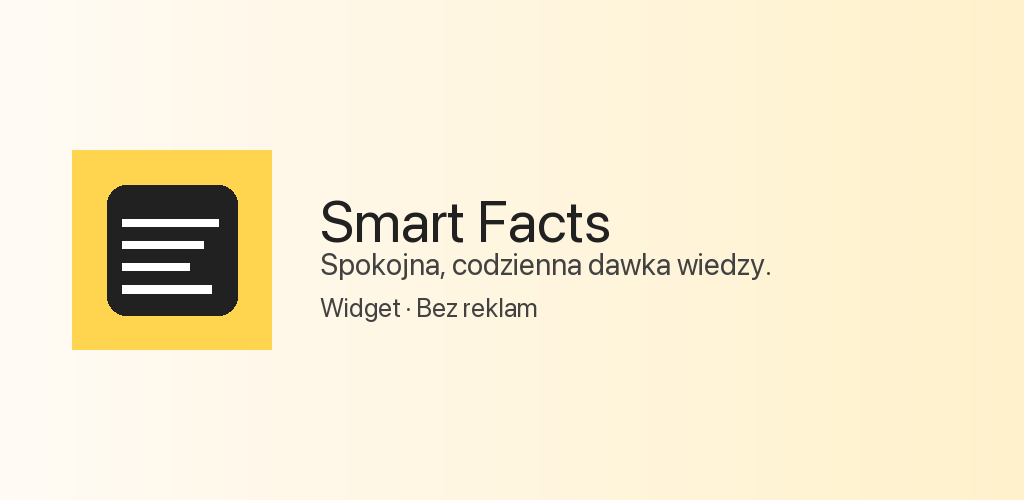
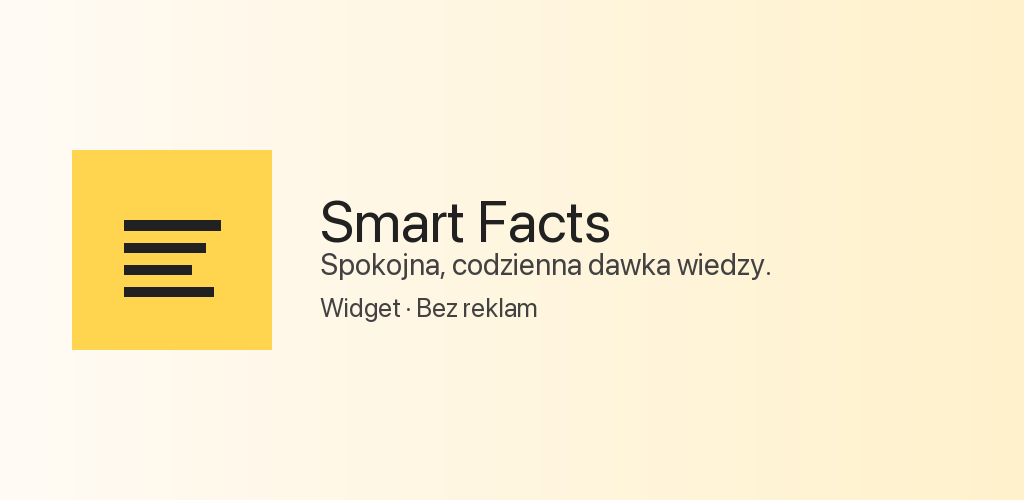
Improve widget layout and refresh launcher branding.
Use Exact widget sizing with full teaser wrapping, centered text over a
bottom-right category icon, and asymmetric padding. Switch to adaptive
mipmap launcher with monochrome icon, lighter category drawables, and
regenerated Play Store graphics.

Changed region(s): [[0.0938, 0.36, 0.25, 0.63]]

diff --git a/app/src/main/java/com/robcish/smartfactswidget/widget/SmartFactsWidget.kt b/app/src/main/java/com/robcish/smartfactswidget/widget/SmartFactsWidget.kt
@@ -2,7 +2,6 @@ package com.robcish.smartfactswidget.widget
 
 import android.content.Context
 import androidx.compose.runtime.Composable
-import androidx.compose.ui.unit.DpSize
 import androidx.compose.ui.unit.dp
 import androidx.compose.ui.unit.sp
 import androidx.glance.GlanceId
@@ -35,14 +34,8 @@ import dagger.hilt.android.EntryPointAccessors
 
 class SmartFactsWidget : GlanceAppWidget() {
 
-    override val sizeMode: SizeMode = SizeMode.Responsive(
-        setOf(
-            DpSize(110.dp, 48.dp),
-            DpSize(180.dp, 48.dp),
-            DpSize(180.dp, 110.dp),
-            DpSize(250.dp, 180.dp),
-        ),
-    )
+    // Exact size so tall resized widgets get real height (Responsive capped at ~180 dp).
+    override val sizeMode: SizeMode = SizeMode.Exact
 
     override suspend fun provideGlance(context: Context, id: GlanceId) {
         val repository = EntryPointAccessors.fromApplication(
@@ -67,24 +60,15 @@ class SmartFactsWidget : GlanceAppWidget() {
 @Composable
 private fun WidgetContent(context: Context, fact: FactEntity?) {
     val size = LocalSize.current
-    val strip = size.height < 80.dp
-    val compact = !strip && (size.width < 150.dp || size.height < 130.dp)
-    val padding = when {
-        strip -> 6.dp
-        compact -> 8.dp
-        else -> 12.dp
+    val isStrip = size.height < 80.dp
+    val contentPadding = when {
+        isStrip -> GlanceModifier.padding(start = 12.dp, end = 8.dp, top = 6.dp, bottom = 6.dp)
+        size.width < 150.dp || size.height < 130.dp ->
+            GlanceModifier.padding(start = 14.dp, end = 10.dp, top = 8.dp, bottom = 8.dp)
+        else -> GlanceModifier.padding(start = 16.dp, end = 12.dp, top = 12.dp, bottom = 12.dp)
     }
-    val iconSize = when {
-        strip -> 24.dp
-        compact -> 32.dp
-        else -> 48.dp
-    }
-    val fontSize = if (strip || compact) 12.sp else 14.sp
-    val maxLines = when {
-        strip -> 1
-        compact -> 2
-        else -> 4
-    }
+    val iconSize = if (isStrip) 16.dp else if (size.width < 150.dp || size.height < 130.dp) 28.dp else 40.dp
+    val fontSize = if (isStrip) 11.sp else if (size.width < 150.dp || size.height < 130.dp) 12.sp else 14.sp
 
     val background = ColorProvider(AccentYellow)
     val textColor = ColorProvider(TextDark)
@@ -100,7 +84,7 @@ private fun WidgetContent(context: Context, fact: FactEntity?) {
         modifier = GlanceModifier
             .fillMaxSize()
             .background(background)
-            .padding(padding)
+            .then(contentPadding)
             .then(clickModifier),
     ) {
         when {
@@ -144,10 +128,7 @@ private fun WidgetContent(context: Context, fact: FactEntity?) {
                             fontWeight = FontWeight.Medium,
                             textAlign = TextAlign.Start,
                         ),
-                        modifier = GlanceModifier
-                            .fillMaxWidth()
-                            .padding(end = if (compact) 4.dp else 8.dp, bottom = 4.dp),
-                        maxLines = maxLines,
+                        modifier = GlanceModifier.fillMaxWidth(),
                     )
                 }
             }

diff --git a/tools/launcher_icon_render.py b/tools/launcher_icon_render.py
@@ -14,21 +14,16 @@ from __future__ import annotations
 from PIL import Image, ImageDraw
 
 BACKGROUND = (255, 213, 79)  # #FFD54F ic_launcher_background
-FOREGROUND = (33, 33, 33)  # #212121
-LINES = (255, 255, 255)
+LINES = (33, 33, 33)  # #212121
 
 VIEWPORT = 108.0
 
-# ic_launcher_foreground.xml — card bounds (19,19)+(70,70), corner radius 10
-_CARD = (19, 19, 89, 89)
-_CARD_RADIUS = 10
-
-# pathData white bars: Mx,y hW v4 → (x1, y1, x2, y2)
+# ic_launcher_foreground.xml — dark bars on yellow (M x,y hW v5)
 _TEXT_LINES = (
-    (27, 37, 79, 41),  # h52
-    (27, 49, 71, 53),  # h44
-    (27, 61, 63, 65),  # h36
-    (27, 73, 75, 77),  # h48
+    (28, 38, 80, 43),
+    (28, 50, 72, 55),
+    (28, 62, 64, 67),
+    (28, 74, 76, 79),
 )
 
 
@@ -46,15 +41,33 @@ def _scale_rect(x1: float, y1: float, x2: float, y2: float, out_size: int) -> tu
 
 
 def render_launcher_icon(size: int) -> Image.Image:
-    """Bitmap match for @drawable/ic_launcher (yellow bg + foreground vector)."""
+    """Bitmap match for @mipmap/ic_launcher (yellow + four text lines)."""
     img = Image.new("RGBA", (size, size), BACKGROUND + (255,))
     draw = ImageDraw.Draw(img)
-
-    card = _scale_rect(*_CARD, out_size=size)
-    radius = max(1, _scale(_CARD_RADIUS, size))
-    draw.rounded_rectangle(card, radius=radius, fill=FOREGROUND)
-
     for line in _TEXT_LINES:
         draw.rectangle(_scale_rect(*line, out_size=size), fill=LINES)
-
     return img
+
+
+def write_mipmap_pngs(res_dir: str = "app/src/main/res") -> None:
+    """Legacy mipmaps for API 23–25 (adaptive XML is v26+ only)."""
+    from pathlib import Path
+
+    sizes = {
+        "mipmap-mdpi": 48,
+        "mipmap-hdpi": 72,
+        "mipmap-xhdpi": 96,
+        "mipmap-xxhdpi": 144,
+        "mipmap-xxxhdpi": 192,
+    }
+    root = Path(__file__).resolve().parents[1] / res_dir
+    for folder, px in sizes.items():
+        out_dir = root / folder
+        out_dir.mkdir(parents=True, exist_ok=True)
+        for name in ("ic_launcher.png", "ic_launcher_round.png"):
+            render_launcher_icon(px).save(out_dir / name, "PNG")
+        print(f"Wrote {folder} ({px}px)")
+
+
+if __name__ == "__main__":
+    write_mipmap_pngs()

diff --git a/tools/generate_category_drawables.py b/tools/generate_category_drawables.py
@@ -46,8 +46,8 @@ BASE_URL = (
 # Material SVGs use viewBox 0 -960 960 960. Glance/AppWidget rasterization needs a 24×24
 # viewport (large viewports often render as blank). Scale paths via <group>.
 SCALE = 24 / 960
-# ~20% black watermark on yellow widget background (no runtime tint — Glance is flaky).
-FILL_COLOR = "#33121212"
+# ~17% black watermark on yellow widget background (no runtime tint — Glance is flaky).
+FILL_COLOR = "#2B121212"
 
 VECTOR_TEMPLATE = """<?xml version="1.0" encoding="utf-8"?>
 <vector xmlns:android="http://schemas.android.com/apk/res/android"

diff --git a/content/FACT_GENERATION_RULES.md b/content/FACT_GENERATION_RULES.md
@@ -70,7 +70,7 @@ python3 tools/verify_category_cooldown.py
 ## Content quality
 
 - **Tone:** calm, curious, accessible; portfolio/education app (not clickbait).
-- **Teaser** (widget): exactly **one** short hook sentence (widget shows **one line** in strip size).
+- **Teaser** (widget): one or two short sentences; the widget wraps the full teaser (no fixed line cap). Keep it concise so very small widgets are still readable.
 - **Body** (detail): 1–3 short paragraphs, Markdown; optional `**bold**`; end with a Wikipedia link when possible.
 - **Locales:** always create **both** `pl-PL` and `en-US` with the same `id`, `month`, `day`, `sequence_index`, `category`. **Translate**, do not paste English into PL files.
 - **Wikipedia links:** use real article titles in the URL. Run `python3 tools/verify_wikipedia_links.py`. PL and EN titles often differ; if there is no sensible PL article for the topic, **omit the link** (do not use a generic category article).
